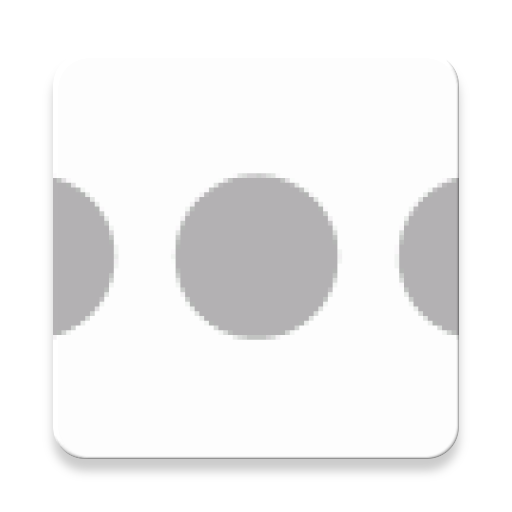
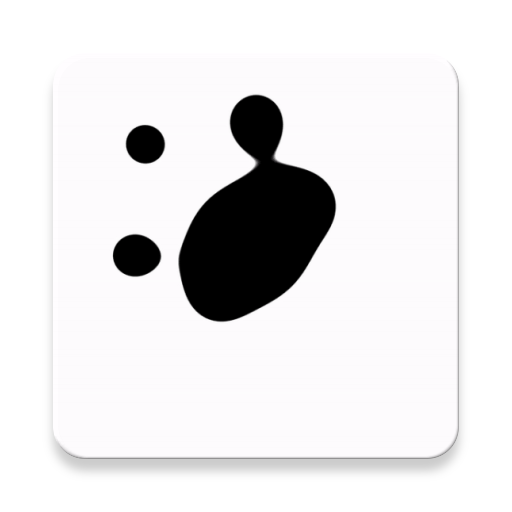
Using glide and gif as placeholder and cleaned not used code

diff --git a/app/src/main/java/com/ismin/opendataapp/ItemActivity.kt b/app/src/main/java/com/ismin/opendataapp/ItemActivity.kt
@@ -1,6 +1,5 @@
 package com.ismin.opendataapp
 
-import android.app.ActionBar
 import android.content.Intent
 import android.net.Uri
 import android.os.Bundle
@@ -11,17 +10,13 @@ import android.widget.ImageButton
 import android.widget.ImageView
 import android.widget.TextView
 import androidx.appcompat.app.AppCompatActivity
+import com.bumptech.glide.Glide
+import com.bumptech.glide.request.RequestOptions
 import com.google.android.material.floatingactionbutton.FloatingActionButton
-import com.squareup.picasso.OkHttp3Downloader
-
-import com.squareup.picasso.Picasso
-import okhttp3.OkHttpClient
-import java.util.concurrent.TimeUnit
 
 
 class ItemActivity : AppCompatActivity() {
 
-    lateinit var backButton: ImageButton
     lateinit var floatingButton: FloatingActionButton
     lateinit var valFromMainActivity: Item
 
@@ -53,26 +48,17 @@ class ItemActivity : AppCompatActivity() {
         val archived: TextView = findViewById(R.id.a_item_txt_archived_location)
         archived.text = valFromMainActivity.lieux_de_conservation
         val previewImg : ImageButton = findViewById(R.id.a_item_img_preview)
-        //Initialize a ok http downloader to use timeouts
-        val client = OkHttpClient().newBuilder()
-            .connectTimeout(120, TimeUnit.SECONDS)
-            .readTimeout(120,TimeUnit.SECONDS)
-            .writeTimeout(120, TimeUnit.SECONDS)
-            .build()
-        val picasso = Picasso.Builder(this)
-            .listener { _, _, e -> e.printStackTrace() }
-            .downloader(OkHttp3Downloader(client))
-            .build()
-        picasso.load(Uri.parse(valFromMainActivity.apercu))
-            .placeholder(R.drawable.ic_launcher_background)
-            .resize(1024, 800)
+
+        Glide.with(this)
+            .load(R.color.colorPrimary)
+            .placeholder(R.drawable.loading)
+            .apply(RequestOptions().override(1024, 800))
             .centerCrop()
-            .onlyScaleDown()
             .error(R.drawable.ic_file_unknown)
             .into(previewImg)
         previewImg.setOnClickListener{_ : View? ->(
-            displayURL(valFromMainActivity.url)
-            )}
+                displayURL(valFromMainActivity.url)
+                )}
     }
 
     override fun onOptionsItemSelected(item: MenuItem): Boolean {

diff --git a/app/src/main/java/com/ismin/opendataapp/ListDataAdapter.kt b/app/src/main/java/com/ismin/opendataapp/ListDataAdapter.kt
@@ -6,17 +6,22 @@ import android.view.LayoutInflater
 import android.view.View
 import android.view.ViewGroup
 import androidx.recyclerview.widget.RecyclerView
-import com.squareup.picasso.OkHttp3Downloader
-import com.squareup.picasso.Picasso
+import com.bumptech.glide.Glide
+import com.bumptech.glide.request.RequestOptions
 import okhttp3.OkHttpClient
 import java.util.concurrent.TimeUnit
 
 
-class ListDataAdapter(private val listItems: List<Item>, private val fragmentInteractionListener: ListFragment.OnFragmentInteractionListener?, private val context: Context?) :
+class ListDataAdapter(
+    private val listItems: List<Item>,
+    private val fragmentInteractionListener: ListFragment.OnFragmentInteractionListener?,
+    private val context: Context?
+) :
     RecyclerView.Adapter<ListDataViewHolder>() {
 
     override fun onCreateViewHolder(parent: ViewGroup, viewType: Int): ListDataViewHolder {
-        val row = LayoutInflater.from(parent.context).inflate(R.layout.fragment_list_item, parent, false)
+        val row =
+            LayoutInflater.from(parent.context).inflate(R.layout.fragment_list_item, parent, false)
 
         return ListDataViewHolder(row)
     }
@@ -34,16 +39,12 @@ class ListDataAdapter(private val listItems: List<Item>, private val fragmentInt
             .build()
 
         if (context != null) {
-            val picasso = Picasso.Builder(context)
-                .listener { _, _, e -> e.printStackTrace() }
-                .downloader(OkHttp3Downloader(client))
-                .build()
-            picasso.load(Uri.parse(item.apercu))
-                .placeholder(R.drawable.ic_launcher_background)
-                .error(R.drawable.ic_file_unknown)
-                .resize(500, 500)
+            Glide.with(context)
+                .load(Uri.parse(item.apercu))
+                .thumbnail(Glide.with(context).load(R.drawable.loading))
+                .apply(RequestOptions().override(500, 500))
                 .centerCrop()
-                .onlyScaleDown()
+                .error(R.drawable.ic_file_unknown)
                 .into(viewholder.itemIcon)
             viewholder.itemIcon.setOnClickListener { _: View? ->
                 (

diff --git a/app/src/main/java/com/ismin/opendataapp/MapFragment.kt b/app/src/main/java/com/ismin/opendataapp/MapFragment.kt
@@ -87,8 +87,6 @@ class MapFragment : Fragment(), OnMapReadyCallback, GoogleMap.OnInfoWindowClickL
             val customInfoWindow = CustomMapMarkerWindow(this.context)
             mClusterManager.markerCollection.setOnInfoWindowAdapter(customInfoWindow)
 
-
-
             mMap.moveCamera(CameraUpdateFactory.newLatLng(LatLng(47.0, 2.5))) //France center
             mMap.animateCamera(CameraUpdateFactory.zoomTo(5.0f))
             mMap.setOnCameraIdleListener(mClusterManager)
